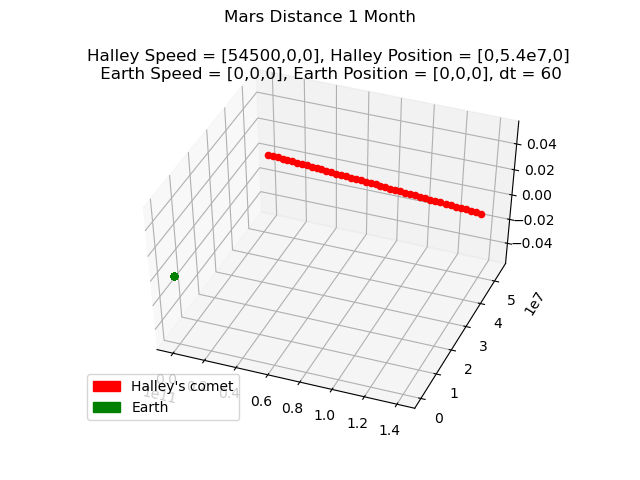
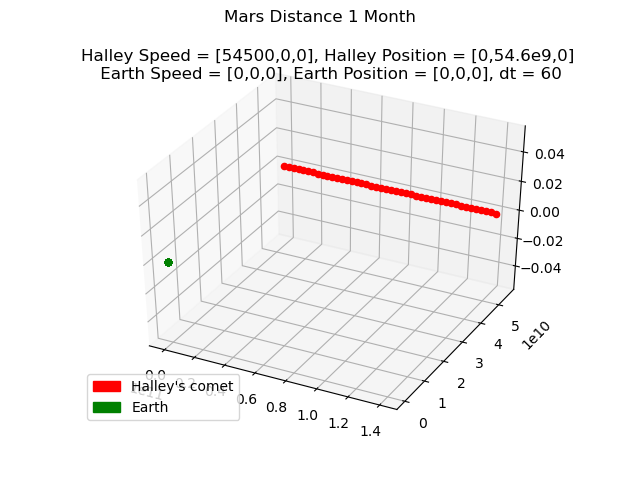
New metrics

diff --git a/crash_distance.py b/crash_distance.py
@@ -143,7 +143,7 @@ dt=60    #sec    Paso de 60 segundos
 earth = Particle([0, 0, 0], [0, 0, 0], 6e24)
 #4936729700 m distancia de Halley a la Tierra
 ##https://solarsystem.nasa.gov/asteroids-comets-and-meteors/comets/1p-halley/in-depth/#:~:text=The%20comet%27s%20closest%20approach%20to,miles%20or%204.94%20million%20kilometers
-halley = Particle([0,3.84e8,0], [54500,0,0], 2.2e14)
+halley = Particle([0,3e6,0], [54500,0,0], 2.2e14)
 #¿O redondeamos 4.93 a 5?
 n_steps = int(lenTime/dt)
 
@@ -260,8 +260,8 @@ for particle in particles:
 #ax[2].grid()
 
 
-plt.title('Halley Speed = [54500,0,0], Halley Position = [0,3.84e8,0]\n Earth Speed= [0,0,0], Earth Position = [0,0,0], dt = 60 ')
-fig.suptitle('Moon Distance 1 Month')
+plt.title('Halley Speed = [54500,0,0], Halley Position = [0,3e6,0]\n Earth Speed= [0,0,0], Earth Position = [0,0,0], dt = 60 ')
+fig.suptitle('Crash Distance 1 Month')
 red_patch = mpatches.Patch(color='red', label='Halley\'s comet')
 green_patch = mpatches.Patch(color='green', label='Earth')
 plt.legend(handles=[red_patch,green_patch],loc='lower left')

diff --git a/mars_distance.py b/mars_distance.py
@@ -143,7 +143,7 @@ dt=60      #sec    Paso de 60 segundos
 earth = Particle([0, 0, 0], [0, 0, 0], 6e24)#6
 #4936729700 m distancia de Halley a la Tierra
 ##https://solarsystem.nasa.gov/asteroids-comets-and-meteors/comets/1p-halley/in-depth/#:~:text=The%20comet%27s%20closest%20approach%20to,miles%20or%204.94%20million%20kilometers
-halley = Particle([0,5.4e7,0],[54500,0,0], 2.2e14)#2.2e14)
+halley = Particle([0,54.6e9,0],[54500,0,0], 2.2e14)#2.2e14)
 #¿O redondeamos 4.93 a 5?
 n_steps = int(lenTime/dt)
 
@@ -258,7 +258,7 @@ for particle in particles:
 #ax[2].plot(x,a)
 #ax[2].set(xlabel='time [sec]', ylabel='acceleration [km/s^2]')
 #ax[2].grid()
-plt.title('Halley Speed = [54500,0,0], Halley Position = [0,5.4e7,0]\n Earth Speed = [0,0,0], Earth Position = [0,0,0], dt = 60')
+plt.title('Halley Speed = [54500,0,0], Halley Position = [0,54.6e9,0]\n Earth Speed = [0,0,0], Earth Position = [0,0,0], dt = 60')
 fig.suptitle('Mars Distance 1 Month')
 red_patch = mpatches.Patch(color='red', label='Halley\'s comet')
 green_patch = mpatches.Patch(color='green', label='Earth')
